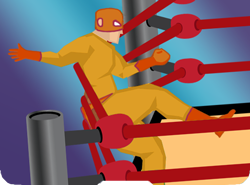
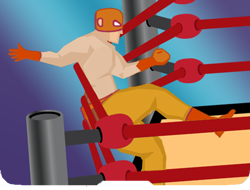
fix debuff patch bug with Artifacted enemies; Choke keyword; tweak Off the Ropes art

diff --git a/src/main/java/thewrestler/patches/powers/OnApplyPowerPatchInsert.java b/src/main/java/thewrestler/patches/powers/OnApplyPowerPatchInsert.java
@@ -8,6 +8,7 @@ import com.megacrit.cardcrawl.core.AbstractCreature;
 import com.megacrit.cardcrawl.dungeons.AbstractDungeon;
 import com.megacrit.cardcrawl.monsters.AbstractMonster;
 import com.megacrit.cardcrawl.powers.AbstractPower;
+import com.megacrit.cardcrawl.powers.ArtifactPower;
 import thewrestler.relics.Headgear;
 
 @SpirePatch(
@@ -42,6 +43,7 @@ public class OnApplyPowerPatchInsert {
         && powerToApply.type == AbstractPower.PowerType.DEBUFF
         && source == player && (target instanceof AbstractMonster)
         && !target.isDeadOrEscaped()
+        && !target.hasPower(ArtifactPower.POWER_ID)
         && !hasBuffAlready) {
       ((Headgear)AbstractDungeon.player.getRelic(Headgear.ID)).onApplyPower(powerToApply);
     }

diff --git a/src/main/java/thewrestler/powers/GrappledPower.java b/src/main/java/thewrestler/powers/GrappledPower.java
@@ -111,7 +111,6 @@ public class GrappledPower extends AbstractWrestlerPower implements CloneablePow
 
   @Override
   public void onRemove() {
-    logger.info("GrapplePower:onRemove number of grappled enemies: " + getGrappledEnemies().size());
     if (getGrappledEnemies().size() == 0) {
       MaintainGrapplePower.clear(this.source, this.owner);
     }
